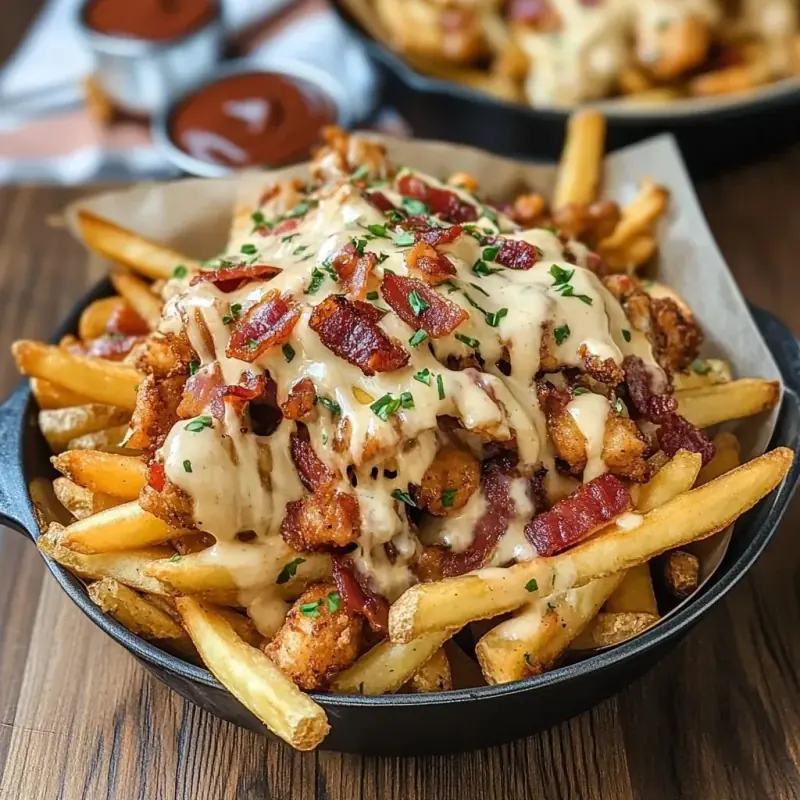
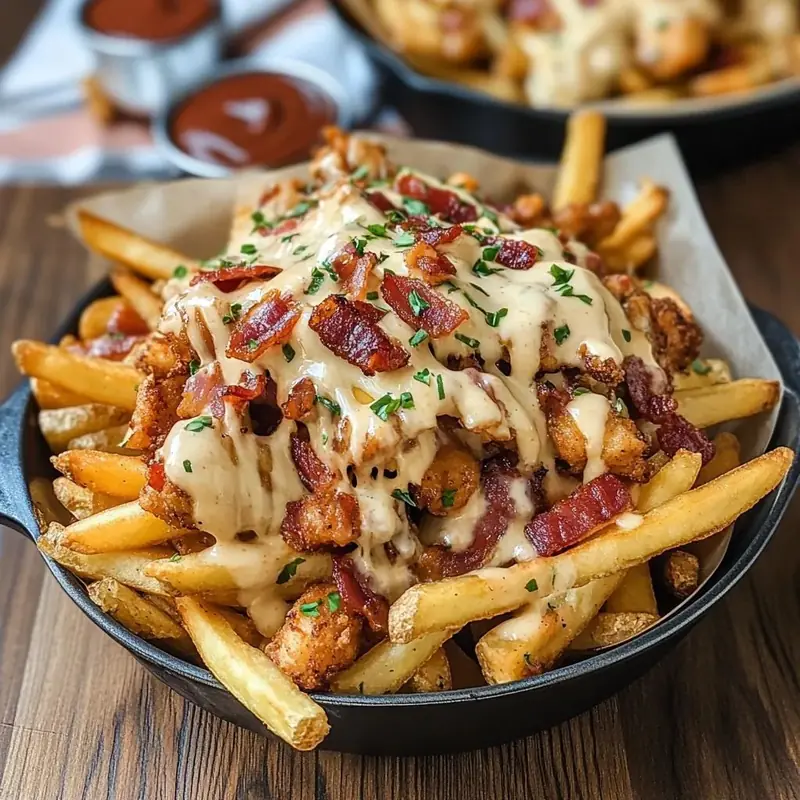
Show the loaded fries the kitchen actually serves
The owner sent a photograph of the real thing — a skillet of fries under
bacon, sauce and crisp chicken. It replaces the stock splash everywhere
loaded fries are named: the Fries & Treats card, the family combo tile,
and the fourth panel of the specials showcase, which gets its own taller
crop so the bowl sits centred instead of being cut by the browser.

The declared dimensions were 1024 square for a file that was 800; they now
match what is on disk.

diff --git a/src/data/specials.ts b/src/data/specials.ts
@@ -2,6 +2,7 @@ import drumstick from "@/assets/drumstick.webp";
 import burgerSplash from "@/assets/burger-splash.webp";
 import pizza from "@/assets/pizza.webp";
 import friesExplosion from "@/assets/fries-explosion.webp";
+import loadedFriesTall from "@/assets/loaded-fries-tall.webp";
 import freshJuice from "@/assets/fresh-juice.webp";
 import brownieShake from "@/assets/brownie-shake.webp";
 import kunafa from "@/assets/kunafa.webp";
@@ -80,9 +81,9 @@ export const specialGroups: SpecialGroup[] = [
     id: "signature-fries",
     title: "Loaded Fries",
     tagline: "Tossed hot so it sticks",
-    src: friesExplosion,
-    w: 736,
-    h: 1030,
+    src: loadedFriesTall,
+    w: 745,
+    h: 1024,
     items: [
       "Gochujang Loaded Fries",
       "Teriyaki Loaded Fries",

diff --git a/src/routes/combos.tsx b/src/routes/combos.tsx
@@ -100,8 +100,8 @@ const CURATED = [
     art: { src: friesArt, w: 320, h: 320 },
     photo: {
       src: loadedFriesPhoto,
-      w: 1024,
-      h: 1024,
+      w: 800,
+      h: 800,
       alt: "Loaded fries with cheese sauce and crispy chicken",
       caption: "Built for the table",
     },

diff --git a/src/components/home/HomeSections.tsx b/src/components/home/HomeSections.tsx
@@ -48,8 +48,8 @@ const INDEX = [
     name: "Fries & Treats",
     ids: ["happy-treats"],
     src: loadedFries,
-    w: 1024,
-    h: 1024,
+    w: 800,
+    h: 800,
     cutout: false,
   },
   { name: "Momos", ids: ["momos-veg", "momos-nonveg"], src: momos, w: 900, h: 900, cutout: true },
